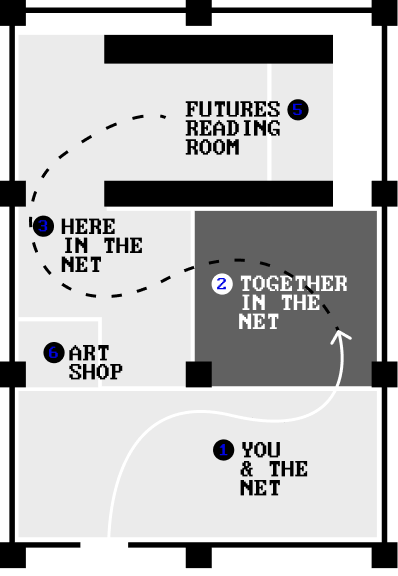
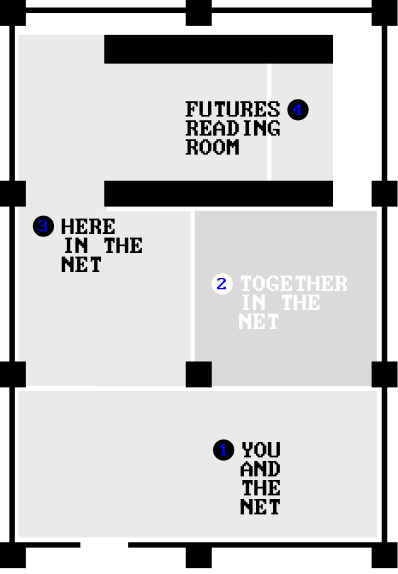
Release v0.7.4 cover and loading polish

diff --git a/src/styles.css b/src/styles.css
@@ -3280,3 +3280,137 @@ h3,
   font-size: 13px;
   letter-spacing: .1em;
 }
+
+/* ---- v0.7.4: cover hierarchy, artwork clarity and loading polish ---- */
+:root {
+  --ui-sans: Inter, ui-sans-serif, system-ui, -apple-system, BlinkMacSystemFont, "Segoe UI", sans-serif;
+}
+
+/* Keep every section-cover group centred within the usable viewport. */
+.section-arrival-content,
+.section-arrival.section-align-center .section-arrival-content,
+.section-arrival.section-align-left .section-arrival-content,
+.section-arrival-two.section-align-center .section-arrival-content,
+.reading-room-arrival-copy {
+  min-height: 100dvh;
+  align-items: center;
+  justify-content: center;
+  padding: calc(var(--safe-top) + 104px) 24px calc(var(--safe-bottom) + 130px);
+  text-align: center;
+}
+
+.section-arrival .section-number,
+.reading-room-arrival-copy .section-number {
+  margin: 0 0 20px;
+}
+
+.section-arrival h1,
+.section-arrival.section-arrival-two h1,
+.section-arrival.section-arrival-three h1,
+.reading-room-arrival-copy h1 {
+  width: 100%;
+  margin: 0;
+  font-family: var(--header);
+  font-size: clamp(34px, 10vw, 45px);
+  line-height: 1.02;
+  font-weight: 400;
+  letter-spacing: .018em;
+  text-align: center;
+}
+
+.section-arrival h1 span,
+.reading-room-arrival-copy h1 span {
+  white-space: nowrap;
+}
+
+.section-arrival .section-subtitle,
+.section-arrival-two .section-subtitle,
+.section-arrival-three .section-subtitle,
+.reading-room-arrival-copy .section-subtitle {
+  max-width: 29ch;
+  margin: 22px 0 0;
+  color: rgba(255,255,255,.9);
+  font-family: var(--ui-sans);
+  font-size: clamp(13px, 3.8vw, 16px);
+  line-height: 1.28;
+  font-weight: 600;
+  letter-spacing: .025em;
+  text-align: center;
+}
+
+.section-arrival .section-subtitle span,
+.reading-room-arrival-copy .section-subtitle span {
+  display: block;
+  white-space: nowrap;
+}
+
+.reading-room-arrival-copy > p:first-child {
+  color: #f4d52f;
+}
+
+.reading-room-arrival-rule {
+  display: none;
+}
+
+/* Artwork titles use a clean interface face; the pixel type remains an accent. */
+.artwork-page .artwork-heading h1,
+.artwork-page.artwork-asia-maxxing .artwork-heading h1,
+.artwork-page.artwork-hexagram .artwork-heading h1,
+.artwork-page.artwork-xo .artwork-heading h1 {
+  font-family: var(--ui-sans);
+  line-height: .98;
+  font-weight: 750;
+  letter-spacing: -.045em;
+}
+
+.artwork-scroll-cue {
+  position: absolute;
+  right: 0;
+  bottom: 94px;
+  left: 0;
+  justify-content: center;
+  margin-top: 24px;
+  color: var(--accent);
+  font-size: 0;
+}
+
+.artwork-scroll-cue span {
+  display: block;
+  font-size: 24px;
+}
+
+.credits-message > p {
+  max-width: 28ch;
+  margin: 0;
+  color: #fff;
+  font-family: var(--ui-sans);
+  font-size: clamp(23px, 7vw, 30px);
+  line-height: 1.12;
+  font-weight: 600;
+  letter-spacing: -.025em;
+}
+
+.credits-message h1 {
+  display: none;
+}
+
+.credits-message {
+  margin-top: 50px;
+}
+
+.credits-copy {
+  margin-top: 60px;
+  padding-top: 0;
+}
+
+.credits-restart {
+  margin-top: 0;
+}
+
+@media (max-height: 760px) {
+  .section-arrival-content,
+  .reading-room-arrival-copy {
+    padding-top: calc(var(--safe-top) + 82px);
+    padding-bottom: calc(var(--safe-bottom) + 118px);
+  }
+}

diff --git a/src/App.tsx b/src/App.tsx
@@ -101,6 +101,42 @@ const guideActions = [
   },
 ]
 
+const guideImageUrls = Array.from(new Set([
+  '/assets/main-splash-logo.png',
+  '/assets/upper-corner-logo-transparent.png',
+  '/assets/info-icon.png',
+  '/assets/settings-icon.png',
+  '/assets/map-step-1.png',
+  '/assets/map-step-2.png',
+  '/assets/map-step-3.png',
+  '/assets/map-step-4.png',
+  ...guideActions.map(({ icon }) => icon),
+  ...Object.values(sectionOneArtworks).flatMap(({ image }) => image ? [image.src] : []),
+  ...Object.values(sectionTwoArtworks).flatMap(({ image }) => image ? [image.src] : []),
+  ...Object.values(sectionThreeArtworks).flatMap(({ image }) => image ? [image.src] : []),
+]))
+
+let guideImagePreload: Promise<void> | undefined
+
+function preloadGuideImages() {
+  if (guideImagePreload) return guideImagePreload
+
+  guideImagePreload = Promise.all(guideImageUrls.map((src) => new Promise<void>((resolve) => {
+    const image = new Image()
+    const timeout = window.setTimeout(resolve, 4000)
+    const finish = () => {
+      window.clearTimeout(timeout)
+      resolve()
+    }
+
+    image.onload = finish
+    image.onerror = finish
+    image.src = src
+  }))).then(() => undefined)
+
+  return guideImagePreload
+}
+
 function readStoredName() {
   try {
     return localStorage.getItem('iitn-guide-name') ?? ''
@@ -221,9 +257,23 @@ export default function App() {
 
   useEffect(() => {
     if (screen !== 'loading') return
-    const delay = reducedMotion ? 700 : 2700
-    const timer = window.setTimeout(() => setScreen('cover'), delay)
-    return () => window.clearTimeout(timer)
+    const minimumDelay = reducedMotion ? 700 : 2700
+    const fallbackDelay = reducedMotion ? 1800 : 5000
+    let cancelled = false
+
+    void Promise.race([
+      Promise.all([
+        preloadGuideImages(),
+        new Promise<void>((resolve) => window.setTimeout(resolve, minimumDelay)),
+      ]),
+      new Promise<void>((resolve) => window.setTimeout(resolve, fallbackDelay)),
+    ]).then(() => {
+      if (!cancelled) setScreen('cover')
+    })
+
+    return () => {
+      cancelled = true
+    }
   }, [screen, reducedMotion])
 
   useEffect(() => {
@@ -329,7 +379,6 @@ export default function App() {
           >
             <article className="how-screen screen-enter">
               <h1>HOW TO USE THIS SPACE</h1>
-              <p className="how-intro">This space is yours to inhabit. We invite you to...</p>
               <div className="action-list">
                 {guideActions.map((action, index) => (
                   <section
@@ -501,7 +550,7 @@ export default function App() {
 
         {screen === 'mapFour' && (
           <AppShell tone="yellow" onMenu={() => setMenuOpen(true)} onInfo={() => setDialog('info')} onSettings={() => setDialog('settings')} onBack={() => go('readingRoomCover')} onNext={() => go('readingRoom')}>
-            <MapScreen heading={`ENTER THE FUTURES READING ROOM, ${displayName.toUpperCase()}.`} marker="four" image="/assets/map-step-4.png" alt="Map of the exhibition showing the route into the Futures Reading Room" note={['FOLLOW THE LIGHT']} />
+            <MapScreen heading={`WELCOME TO THE READING ROOM, ${displayName.toUpperCase()}.`} marker="four" image="/assets/map-step-4.png" alt="Map of the exhibition showing the route into the Futures Reading Room" note={['FOLLOW THE LIGHT']} />
           </AppShell>
         )}
 
@@ -684,10 +733,9 @@ function ReadingRoomArrival({ reducedMotion }: { reducedMotion: boolean }) {
       <IslandBlob className="reading-room-blob reading-room-blob-a" variant={3} />
       <IslandBlob className="reading-room-blob reading-room-blob-b" variant={1} />
       <div className="reading-room-arrival-copy">
-        <p>FINAL SPACE</p>
+        <p className="section-number">SECTION 4</p>
         <h1><span>FUTURES</span><span>READING</span><span>ROOM</span></h1>
-        <div className="reading-room-arrival-rule" aria-hidden="true" />
-        <p className="reading-room-arrival-subtitle">RESEARCH ARCHIVE OF<br />SOUTHEAST ASIAN FUTURES</p>
+        <p className="section-subtitle"><span>RESEARCH ARCHIVE OF</span><span>SOUTHEAST ASIAN FUTURES</span></p>
       </div>
     </section>
   )
@@ -728,7 +776,6 @@ function InfoDialog({ onClose }: { onClose: () => void }) {
         <div><span>WHEN</span><strong>17 JUL — 16 NOV</strong></div>
         <div><span>WHERE</span><strong>PADIMAI ART &amp; TECH STUDIO<br />TANJONG PAGAR DISTRIPARK</strong></div>
         <div><span>HOURS</span><strong>11AM — 7PM</strong></div>
-        <div><span>ADMISSION</span><strong>FREE</strong></div>
       </div>
       <p className="modal-body-copy">
         Islands in the Net is part exhibition, part public living room and part programme platform — a meeting place for Southeast Asian futures.

diff --git a/src/components/CreditsPage.tsx b/src/components/CreditsPage.tsx
@@ -10,8 +10,7 @@ export default function CreditsPage({ visitorName, onRestart }: Props) {
         <span /><span /><span /><span /><span />
       </div>
       <div className="credits-message">
-        <p>THANK YOU, {visitorName.toUpperCase()}.</p>
-        <h1>KEEP<br />THE NET<br />OPEN.</h1>
+        <p>Thank you for exploring the net with us, {visitorName}.</p>
       </div>
 
       <div className="credits-copy">

diff --git a/index.html b/index.html
@@ -5,6 +5,8 @@
     <meta name="viewport" content="width=device-width, initial-scale=1.0, viewport-fit=cover" />
     <meta name="theme-color" content="#000000" />
     <meta name="description" content="A digital guide to Islands in the Net at Padimai Art & Tech Studio." />
+    <link rel="preload" href="/fonts/Header_Font.ttf" as="font" type="font/ttf" crossorigin />
+    <link rel="preload" href="/assets/main-splash-logo.png" as="image" fetchpriority="high" />
     <title>Islands in the Net — Guide</title>
   </head>
   <body>

diff --git a/src/components/ArtworkPage.tsx b/src/components/ArtworkPage.tsx
@@ -51,7 +51,7 @@ export default function ArtworkPage({ artwork }: Props) {
             <p className="artwork-artist"><MultilineText text={artwork.artist} /></p>
           </header>
           {artwork.image?.note && <p className="artwork-image-note">{artwork.image.note}</p>}
-          <p className="artwork-scroll-cue" aria-hidden="true">SCROLL TO READ <span>↓</span></p>
+          <p className="artwork-scroll-cue" aria-hidden="true"><span>↓</span></p>
         </div>
       </section>
 

diff --git a/PROJECT_PROGRESS.md b/PROJECT_PROGRESS.md
@@ -1,7 +1,7 @@
 # Guide in the Net — Project Progress
 
 _Last updated: 14 July 2026_  
-_Current package: v0.7.3 — curator polish and Reading Room wayfinding_
+_Current package: v0.7.4 — cover hierarchy and loading polish_
 
 ## Current experience
 
@@ -34,6 +34,14 @@ The complete guide journey remains:
 1. ASIAMAXXING
 2. Hexagram Today
 3. XO (2026)
+
+## Changes in v0.7.4
+
+- Centred section-cover content and made the Futures Reading Room cover consistent with the other section covers.
+- Switched artwork titles and section-cover subtitles to a clean sans-serif stack.
+- Replaced the artwork scroll prompt with a centred animated arrow.
+- Updated the final map heading, simplified the final thank-you message and removed the admission row from exhibition information.
+- Added high-priority font and splash-image hints plus guarded image preloading during the loading screen.
 
 ## Changes in v0.7.3
 

diff --git a/CHANGELOG.md b/CHANGELOG.md
@@ -1,5 +1,13 @@
 # Changelog
 
+## 0.7.4 - Cover hierarchy and loading polish
+
+- Centred all section-cover content and unified the Futures Reading Room cover
+- Kept long section titles on deliberate lines and moved cover subtitles to a clean sans-serif stack
+- Changed artwork headings to a clean sans-serif stack and reduced the scroll prompt to an animated arrow
+- Simplified the final map, credits message and exhibition-info content
+- Added font and image preloading during the loading screen
+
 ## 0.7.3 - Curator polish and Reading Room wayfinding
 
 - Added a fourth map step before the Futures Reading Room